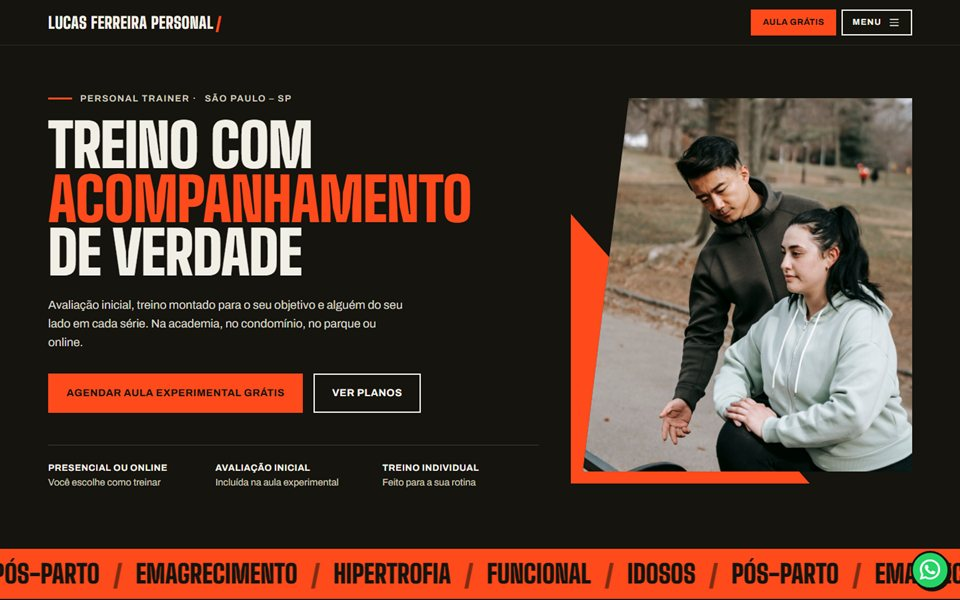
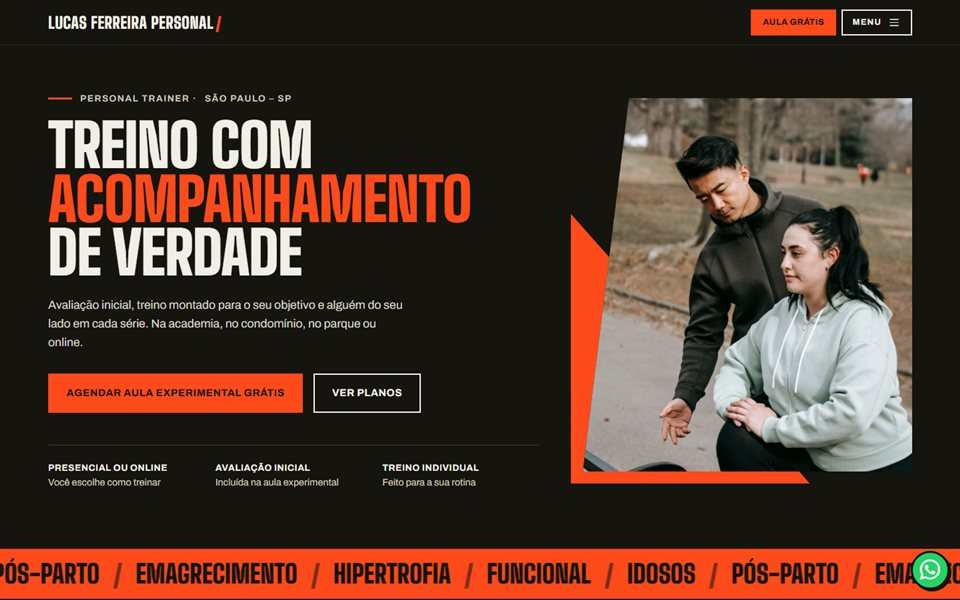
Remove paginaVendas, reduz imagem do Personal e alinha botões dos cards

diff --git a/css/style.css b/css/style.css
@@ -274,7 +274,7 @@ h1, h2, h3, p { margin: 0; }
   display: grid;
   grid-template-columns: repeat(auto-fit, minmax(280px, 1fr));
   gap: 32px 24px;
-  align-items: start;
+  align-items: stretch;     /* cards da mesma linha ficam com a mesma altura */
 }
 
 /* Card de produto */
@@ -282,6 +282,8 @@ h1, h2, h3, p { margin: 0; }
   background: #fff;
   border: 1.5px solid var(--ssp-planta);
   border-radius: 0;
+  display: flex;
+  flex-direction: column;
 }
 .card__imagem {
   position: relative;       /* a etiqueta de preço se apoia aqui */
@@ -318,7 +320,13 @@ h1, h2, h3, p { margin: 0; }
   text-shadow: var(--ssp-sombra-titulo);
 }
 .card__placa { position: absolute; top: 12px; left: 12px; }
-.card__corpo { padding: 32px 16px 16px; display: grid; gap: 1rem; }
+.card__corpo {
+  padding: 32px 16px 16px;
+  display: flex;
+  flex-direction: column;
+  gap: 1rem;
+  flex: 1;                  /* ocupa o resto do card, para os botões irem ao rodapé */
+}
 .card__nome {
   font-family: var(--ssp-titulo);
   font-weight: 400;
@@ -328,7 +336,7 @@ h1, h2, h3, p { margin: 0; }
   line-height: 1.15;
 }
 .card__descricao { color: var(--ssp-cinza); font-size: .95rem; }
-.card__acoes { display: grid; gap: .75rem; margin-top: .25rem; }
+.card__acoes { display: grid; gap: .75rem; margin-top: auto; padding-top: .25rem; } /* auto = botões no rodapé */
 
 /* Card fixo "Em breve" */
 .card--breve {

diff --git a/README.md b/README.md
@@ -42,6 +42,11 @@ Na Netlify funciona normalmente, porque lá o endereço é `https://`.
 - Se a imagem ainda não existir, o card mostra o fundo de planta com o nome do modelo.
 - Cuidado com as vírgulas e aspas: o último item da lista **não** leva vírgula no final.
 
+## Anotações
+
+- Página de vendas do modelo Personal Trainer (na Kiwify): https://kiwify.app/LjNysET. O app não usa esse link, fica aqui só como referência.
+- O Personal Trainer ainda não tem demo publicada. Quando tiver, preencha o campo `demo` dele no `produtos.json` e o botão "Ver a demo" aparece sozinho.
+
 ## Antes de publicar
 
 No `index.html`, procure o comentário `TROCAR DEPOIS DE PUBLICAR` e coloque o endereço completo do seu site no `og:image`. Assim a imagem aparece certinho quando alguém compartilha o link.
